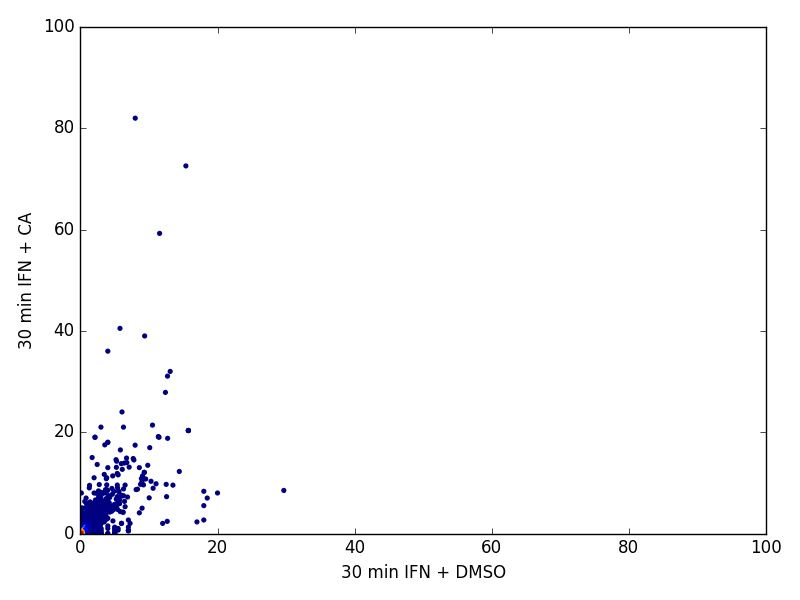
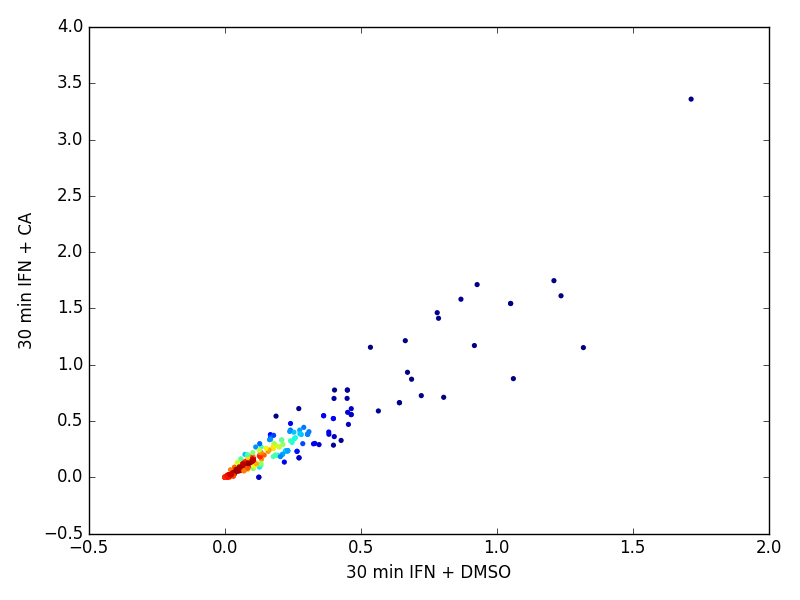
updates

diff --git a/src/pausing_index_IRIS.py b/src/pausing_index_IRIS.py
@@ -66,8 +66,8 @@ def plot_vs(pausing_indexes1,pausing_indexes2,figuredir):
     ax.scatter(x,y,c=z,edgecolor="",s=14)
     plt.xlabel("30 min IFN + DMSO")
     plt.ylabel("30 min IFN + CA")
-    # plt.ylim((0,100))
-    # plt.xlim((0,100))
+    plt.ylim((0,3.5))
+    plt.xlim((0,3.5))
     plt.savefig(figuredir + 'pausing_indexes_IRIS.png')
 
 def plot_boxplots(array_of_pausing_indexes):
